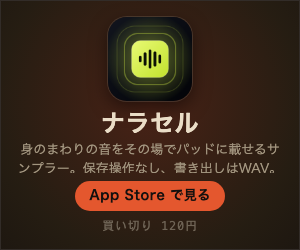
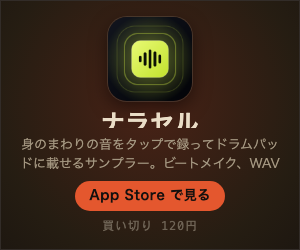
ナラセルを公開中に切り替え・1.1のタップ録音に文言を更新、つづくToDoのタイトル/OG/リードを習慣化・ヘルスケア連携に寄せる
ナラセル（6799580268）
- apps.py: state を prepare → live（2026-09-30頃から App Store で配信中）。tagline「タップで録って、両手で鳴らす。」、short を更新
- QR（assets/qr/naraseru.png）を新規生成、OG画像・A8素材（info/text/バナー）を再生成
- apps/naraseru.html: title・og:title・og:description・description・リードを更新。上部に App Store ボタン（ct=web_app_hero）
- 本文・support FAQ・解決記事（sanpuraa-hajimekata）の「長押しで録って離す」を、1.1の「録音ボタンをタップ→3・2・1→両手で演奏→画面のどこかをタップで停止」に置き換え（バージョン1.1からと明記）

つづくToDo（6796174701）
- apps.py: tagline「三日坊主でも、つづく。」。OG画像・A8素材（info/text）を再生成
- apps/tsuzukutodo.html: title・og:title・og:description・description冒頭・リードを更新（ヘルスケア連携で自動チェック、1.5.1から設定で1タップ連携）
- support FAQ に「Apple ヘルスケアと連携するには」を追加

生成スクリプト（build_pages / build_index_pages / sync_index_cards / sync_guide_status / sync_nav / build_faq_ld / build_sitemap / build_guides）を再実行。
/apps/ の本数表記（22→24本、配信中15→16本）も追随。
CSPハッシュを再計算し netlify.toml と完全一致（349件、過不足0）。check_state_text も問題なし。

Changed region(s): [[0.06, 0.504, 0.93, 0.7], [0.42, 0.504, 0.48, 0.532]]

diff --git a/apps/naraseru.html b/apps/naraseru.html
@@ -3,13 +3,13 @@
 <head>
 <meta charset="utf-8">
 <meta name="viewport" content="width=device-width, initial-scale=1">
-<title>ナラセル ｜ 株式会社サウナ / Sauna Inc.</title>
-<meta name="description" content="ナラセルは、身のまわりの音をパッドの長押しで録って、離した瞬間から演奏できるiPhone/iPad用のサンプラーです。無音カットと音量そろえは自動。9音を内蔵しているので買ったその場で鳴ります。16ステップの打ち込みは1拍もずれず、WAVで書き出せます。買い切り120円、追加課金なし・広告なし・通信なし。株式会社サウナ（Sauna Inc.）が開発・サポートしています。">
+<title>ナラセル｜録音サンプラー・ドラムパッドでビートメイク ｜ 株式会社サウナ / Sauna Inc.</title>
+<meta name="description" content="ナラセルは、身のまわりの音をタップで録って、止めた瞬間からドラムパッドで演奏できるiPhone/iPad用のサンプラーです。録音ボタンは押し続けなくてよく、3・2・1のカウントのあと両手で演奏して、画面のどこかをタップすれば止まります。無音カットと音量そろえは自動。9音を内蔵しているので買ったその場で鳴ります。16ステップの打ち込みは1拍もずれず、WAVで書き出せます。買い切り120円、追加課金なし・広告なし・通信なし。株式会社サウナ（Sauna Inc.）が開発・サポートしています。">
 <link rel="canonical" href="https://tokyo357.com/apps/naraseru">
 <meta name="theme-color" content="#101418">
 <meta property="og:type" content="website">
-<meta property="og:title" content="ナラセル ｜ 株式会社サウナ / Sauna Inc.">
-<meta property="og:description" content="長押しで録って、離すと楽器。身のまわりの音でビートを作る買い切りサンプラー。">
+<meta property="og:title" content="ナラセル｜録音サンプラー・ドラムパッドでビートメイク ｜ 株式会社サウナ / Sauna Inc.">
+<meta property="og:description" content="タップで録音、身のまわりの音がそのまま楽器に。ドラムパッドでビートメイクできる買い切りサンプラー。">
 <meta property="og:url" content="https://tokyo357.com/apps/naraseru">
 <link rel="icon" href="/assets/logo.svg" type="image/svg+xml">
 <link rel="stylesheet" href="/assets/style.css?v=20260805">
@@ -18,6 +18,7 @@
 <meta property="og:image:width" content="1200">
 <meta property="og:image:height" content="630">
 <meta name="twitter:card" content="summary_large_image">
+<meta name="apple-itunes-app" content="app-id=6799580268">
 <!-- /BUILD:head -->
 
 <script type="application/ld+json">
@@ -76,8 +77,9 @@
       <div>
         <p class="updated">IOS 17+ · IPHONE / IPAD · 買い切り 120円</p>
         <h1>ナラセル</h1>
-        <p class="lede">机を叩く音、ペットボトル、自分の声。<strong>パッドを長押しして、離すだけ</strong>で、その音は楽器になります。</p>
+        <p class="lede">机を叩く音、ペットボトル、自分の声、手元の楽器。<strong>録音ボタンをタップして、両手で鳴らすだけ</strong>で、その音はドラムパッドの楽器になります。押し続けなくていいので、楽器を持ったまま録れます（バージョン1.1から）。</p>
         <div class="actions mt-s">
+          <a class="btn" href="https://apps.apple.com/jp/app/id6799580268?ct=web_app_hero&amp;mt=8">App Store で見る</a>
           <a class="btn btn--ghost" href="/support#naraseru">よくある質問</a>
           <a class="btn btn--ghost" href="#help">お問い合わせ</a>
         </div>
@@ -103,8 +105,8 @@
           <figcaption>12枚のパッド。色と番号の両方で覚えられます。</figcaption>
         </figure>
         <figure>
-          <img src="/assets/shots/naraseru/2_record.png" width="440" height="900" alt="パッドを長押しして録音している最中の画面" loading="lazy">
-          <figcaption>長押ししているあいだが録音。離すと確定します。</figcaption>
+          <img src="/assets/shots/naraseru/2_record.png" width="440" height="900" alt="パッドに音を録音している最中の画面" loading="lazy">
+          <figcaption>録った音はそのままパッドに入ります。</figcaption>
         </figure>
         <figure>
           <img src="/assets/shots/naraseru/3_steps.png" width="440" height="900" alt="16ステップの打ち込み画面" loading="lazy">
@@ -112,9 +114,11 @@
         </figure>
       </div>
 
-      <h2>長押しして、離す。それで1音</h2>
-      <p>従来のサンプラーは「録る→前後を切る→音量を整える→やっと鳴らせる」まで、いくつも工程がありました。ナラセルは、<strong>指を離した瞬間にその全部を済ませます</strong>。</p>
-      <p>前後の無音を落とし、音量をそろえ（ノーマライズ）、頭とお尻に短いフェードを入れてプチッというノイズを消す。ここに設定項目はありません。あなたがするのは、押して離すことだけです。</p>
+      <h2>タップで録って、両手で鳴らす</h2>
+      <p>録りたいパッドを選んで、画面下の録音ボタンを1回タップします。<strong>押し続ける必要はありません</strong>。3・2・1のカウント（数字とクリック音と振動）のあいだに楽器を構え、録音が始まったら両手で演奏してください。止めるときは<strong>画面のどこかをタップ</strong>するだけです（最大20秒）。カウントは設定で なし／3秒／5秒 から選べます。</p>
+      <p>この「押し続けなくていい」録り方は<strong>バージョン1.1から</strong>です。</p>
+      <p>従来のサンプラーは「録る→前後を切る→音量を整える→やっと鳴らせる」まで、いくつも工程がありました。ナラセルは、<strong>録音を止めた瞬間にその全部を済ませます</strong>。</p>
+      <p>前後の無音を落とし、音量をそろえ（ノーマライズ）、頭とお尻に短いフェードを入れてプチッというノイズを消す。ここに設定項目はありません。あなたがするのは、録って止めることだけです。</p>
 
       <h2>買ったその場で鳴る</h2>
       <p>キック、スネア、ハット、オープンハット、クラップ、コンガ、ベース、コード、プラックの9音を最初から内蔵しています。マイクの許可を出す前から叩けますし、再生ボタンを押せばリズムが鳴ります。</p>
@@ -125,7 +129,7 @@
       <p>書き出しもまったく同じ仕組みを通ります。アプリで聴いた音と、書き出したWAVの中身が食い違うことがありません。</p>
 
       <h2>「保存」という操作がありません</h2>
-      <p>録音した音は、指を離したその瞬間にファイルとして書かれます。テンポも打ち込みもパッドの設定も、変えた直後に自動で保存されます。書き込みは一時ファイルを作ってから差し替える方式なので、途中で電源が落ちても前の状態が残ります。</p>
+      <p>録音した音は、止めたその瞬間にファイルとして書かれます（録音中にアプリを切り替えたり電話が鳴ったりしても、録れた分はパッドに入ります）。テンポも打ち込みもパッドの設定も、変えた直後に自動で保存されます。書き込みは一時ファイルを作ってから差し替える方式なので、途中で電源が落ちても前の状態が残ります。</p>
       <p>アプリを切り替えても、強制終了しても、次に開いたときは同じ続きから始まります。</p>
 
       <h2>音楽の知識がなくても、メロディになる</h2>
@@ -133,7 +137,7 @@
 
       <h2>できること</h2>
       <ul>
-        <li><strong>パッド長押しで録音</strong> — 最大20秒。ファイルアプリからの読み込みもできます。</li>
+        <li><strong>タップで録音</strong> — 録音ボタンで開始、画面のどこかをタップで停止。最大20秒。ファイルアプリからの読み込みもできます。</li>
         <li><strong>鳴らす範囲のトリム</strong> — つまんで動かす2つのハンドルだけ。ピンチ操作は使いません。</li>
         <li><strong>音の加工</strong> — 音程±12半音、音量、逆再生、ループ、押しているあいだだけ鳴らす。</li>
         <li><strong>重ねない組</strong> — 同じ組のパッドは同時に鳴りません。ハイハットの開け閉めのような使い方に。</li>
@@ -162,12 +166,16 @@
 <!-- BUILD:install -->
     <section class="install">
       <div>
-        <h2>ナラセルは現在 App Store 申請の準備中です</h2>
-        <p>iOS 17+ ／ 買い切り 120円 で公開予定です。公開されしだい、このページにダウンロードのリンクを出します。先に中身を知りたい方は、上の説明とよくある質問をご覧ください。</p>
+        <h2>ナラセルを使ってみる</h2>
+        <p>iOS 17+ ／ 買い切り 120円。この端末がiPhone・iPadなら、下のボタンから直接 App Store が開きます。</p>
         <div class="actions">
-          <a class="btn btn--ghost" href="/support#naraseru">よくある質問</a>
-          <a class="btn btn--ghost" href="/apps/">ほかのアプリを見る</a>
+          <a class="btn" href="https://apps.apple.com/jp/app/id6799580268?ct=web_app_page&amp;mt=8">App Store でダウンロード</a>
+          <a class="btn btn--ghost" href="/support#naraseru">先に質問を読む</a>
         </div>
+      </div>
+      <div class="install-qr">
+        <img src="/assets/qr/naraseru.png" width="290" height="290" alt="ナラセル の App Store ページのQRコード" loading="lazy">
+        <span>スマートフォンの<br>カメラで読み取る</span>
       </div>
     </section>
   <!-- /BUILD:install -->

diff --git a/support.html b/support.html
@@ -271,6 +271,14 @@
     },
     {
       "@type": "Question",
+      "name": "Apple ヘルスケアと連携するには",
+      "acceptedAnswer": {
+        "@type": "Answer",
+        "text": "バージョン1.5.1からは、アプリの 設定 →「Apple ヘルスケア」→「Apple ヘルスケアと連携する」をタップしてください。説明のあとに iOS の許可画面が出るので、「すべてオンにする」か使う項目をオンにして「許可」を押します。これで歩数やエクササイズ時間などを読み取れるようになります。 あとは、タスクの編集画面の「Apple ヘルスケア」で項目と目標を選ぶと、目標に届いた日にそのタスクが自動で完了になります。許可しただけでは、タスクは変わりません。 許可の状態を確かめたり変えたりするときは、ヘルスケア App → 右上のプロフィール →「App」→「つづくToDo」を開いてください。読み取りのみで、ヘルスケアへの書き込みや端末外への送信はしません。iPad など、ヘルスケアの無い機種では表示されません。"
+      }
+    },
+    {
+      "@type": "Question",
       "name": "機種変更でデータを引き継ぎたい",
       "acceptedAnswer": {
         "@type": "Answer",
@@ -1050,7 +1058,7 @@
       "name": "録音のしかたが分かりません",
       "acceptedAnswer": {
         "@type": "Answer",
-        "text": "パッドを長押ししてください。押しているあいだが録音で、指を離すとその音がそのパッドに入ります。前後の無音を切る・音量をそろえる処理は、離した瞬間に自動で終わります。設定する項目はありません。"
+        "text": "録りたいパッドをタップして選び、画面下の録音ボタンを1回タップしてください。押し続ける必要はありません。3・2・1のカウント（数字・クリック音・振動）のあとに録音が始まるので、両手で演奏できます。止めるときは画面のどこかをタップしてください（最大20秒で自動的に止まります）。その音がそのパッドに入り、前後の無音を切る・音量をそろえる処理も止めた瞬間に自動で終わります。 カウントの長さは設定で なし／3秒／5秒 から選べます。カウント中に画面をタップすると録音を取り消せます。この録り方はバージョン1.1からです。"
       }
     },
     {
@@ -1066,7 +1074,7 @@
       "name": "作ったものが消えませんか",
       "acceptedAnswer": {
         "@type": "Answer",
-        "text": "保存の操作はありません。録音した音は指を離した瞬間にファイルとして書かれ、テンポや打ち込みも変更のたびに自動保存されます。書き込みは一時ファイルを作ってから差し替える方式なので、途中で電源が落ちても前の状態が残ります。"
+        "text": "保存の操作はありません。録音した音は止めた瞬間にファイルとして書かれ（録音中にアプリを切り替えたり電話が鳴ったりしても、録れた分はパッドに入ります）、テンポや打ち込みも変更のたびに自動保存されます。書き込みは一時ファイルを作ってから差し替える方式なので、途中で電源が落ちても前の状態が残ります。"
       }
     },
     {
@@ -1735,6 +1743,14 @@
           <summary>深夜に日付が変わって、その日の記録ができません</summary>
           <div class="a">
             <p>設定 →「1日の区切り」を 3:00 などに変えてください。深夜0時をまたいでも、区切りの時刻までは「その日」のままチェックできます。0〜5時のあいだで選べます。</p>
+          </div>
+        </details>
+        <details>
+          <summary>Apple ヘルスケアと連携するには</summary>
+          <div class="a">
+            <p>バージョン1.5.1からは、アプリの 設定 →「Apple ヘルスケア」→<strong>「Apple ヘルスケアと連携する」</strong>をタップしてください。説明のあとに iOS の許可画面が出るので、「すべてオンにする」か使う項目をオンにして「許可」を押します。これで歩数やエクササイズ時間などを読み取れるようになります。</p>
+            <p>あとは、タスクの編集画面の「Apple ヘルスケア」で項目と目標を選ぶと、目標に届いた日にそのタスクが自動で完了になります。許可しただけでは、タスクは変わりません。</p>
+            <p>許可の状態を確かめたり変えたりするときは、<strong>ヘルスケア App → 右上のプロフィール →「App」→「つづくToDo」</strong>を開いてください。読み取りのみで、ヘルスケアへの書き込みや端末外への送信はしません。iPad など、ヘルスケアの無い機種では表示されません。</p>
           </div>
         </details>
         <details>
@@ -2490,7 +2506,8 @@
         <details>
           <summary>録音のしかたが分かりません</summary>
           <div class="a">
-            <p>パッドを長押ししてください。押しているあいだが録音で、指を離すとその音がそのパッドに入ります。前後の無音を切る・音量をそろえる処理は、離した瞬間に自動で終わります。設定する項目はありません。</p>
+            <p>録りたいパッドをタップして選び、画面下の<strong>録音ボタンを1回タップ</strong>してください。押し続ける必要はありません。3・2・1のカウント（数字・クリック音・振動）のあとに録音が始まるので、両手で演奏できます。止めるときは<strong>画面のどこかをタップ</strong>してください（最大20秒で自動的に止まります）。その音がそのパッドに入り、前後の無音を切る・音量をそろえる処理も止めた瞬間に自動で終わります。</p>
+            <p>カウントの長さは設定で なし／3秒／5秒 から選べます。カウント中に画面をタップすると録音を取り消せます。この録り方はバージョン1.1からです。</p>
           </div>
         </details>
         <details>
@@ -2502,7 +2519,7 @@
         <details>
           <summary>作ったものが消えませんか</summary>
           <div class="a">
-            <p>保存の操作はありません。録音した音は指を離した瞬間にファイルとして書かれ、テンポや打ち込みも変更のたびに自動保存されます。書き込みは一時ファイルを作ってから差し替える方式なので、途中で電源が落ちても前の状態が残ります。</p>
+            <p>保存の操作はありません。録音した音は止めた瞬間にファイルとして書かれ（録音中にアプリを切り替えたり電話が鳴ったりしても、録れた分はパッドに入ります）、テンポや打ち込みも変更のたびに自動保存されます。書き込みは一時ファイルを作ってから差し替える方式なので、途中で電源が落ちても前の状態が残ります。</p>
           </div>
         </details>
         <details>

diff --git a/apps/tsuzukutodo.html b/apps/tsuzukutodo.html
@@ -3,13 +3,13 @@
 <head>
 <meta charset="utf-8">
 <meta name="viewport" content="width=device-width, initial-scale=1">
-<title>つづくToDo ｜ 株式会社サウナ / Sauna Inc.</title>
-<meta name="description" content="タスクの数に上限がなく、押し間違えても取り消せて、忘れた日はあとから記録できる習慣・ToDoアプリ。買い切り120円、広告なし、アカウント登録なし、記録は端末内に保存（入力した内容は端末の外に出ません）。株式会社サウナ（Sauna Inc.）が開発・サポートしています。">
+<title>つづくToDo｜習慣化・日課チェック・継続記録 ｜ 株式会社サウナ / Sauna Inc.</title>
+<meta name="description" content="三日坊主でも、つづく。習慣化と日課チェックをひとつにしたToDoアプリで、歩数や運動はApple ヘルスケア連携で自動チェックできます。タスクの数に上限がなく、押し間違えても取り消せて、忘れた日はあとから記録できます。買い切り120円、広告なし、アカウント登録なし、記録は端末内に保存（入力した内容は端末の外に出ません）。株式会社サウナ（Sauna Inc.）が開発・サポートしています。">
 <link rel="canonical" href="https://tokyo357.com/apps/tsuzukutodo">
 <meta name="theme-color" content="#101418">
 <meta property="og:type" content="website">
-<meta property="og:title" content="つづくToDo ｜ 株式会社サウナ / Sauna Inc.">
-<meta property="og:description" content="上限なし・取り消せる・消えない。習慣もToDoもひとつの画面で。買い切り120円。">
+<meta property="og:title" content="つづくToDo｜習慣化・日課チェック・継続記録 ｜ 株式会社サウナ / Sauna Inc.">
+<meta property="og:description" content="三日坊主でも、つづく。習慣化と日課チェックをひとつに。歩数や運動はヘルスケア連携で自動チェック。広告なし・買い切り120円。">
 <meta property="og:url" content="https://tokyo357.com/apps/tsuzukutodo">
 <link rel="icon" href="/assets/logo.svg" type="image/svg+xml">
 <link rel="stylesheet" href="/assets/style.css?v=20260805">
@@ -69,7 +69,7 @@
       <div>
         <p class="updated">IOS 17+ · IPHONE / IPAD · 買い切り 120円</p>
         <h1>つづくToDo</h1>
-        <p class="lede">毎日の習慣も、一回きりのToDoも、ひとつの画面で。タスクの数に上限はなく、押し間違えてもすぐ取り消せて、うっかり忘れた日はあとから記録できます。</p>
+        <p class="lede"><strong>三日坊主でも、つづく。</strong>毎日の習慣も、一回きりのToDoも、ひとつの画面で。歩数やエクササイズ時間は<strong>Apple ヘルスケア連携で自動チェック</strong>（iPhone）。バージョン1.5.1からは、設定の「Apple ヘルスケアと連携する」を1回タップするだけで連携できます。タスクの数に上限はなく、押し間違えてもすぐ取り消せて、うっかり忘れた日はあとから記録できます。</p>
         <p class="rank">App Store 仕事効率化（有料App）<b>最高 65位</b><span class="when">2026-08-07 時点</span></p>
         <div class="actions mt-s">
           <a class="btn" href="https://apps.apple.com/jp/app/id6796174701?ct=web_app_hero&amp;mt=8">App Store で見る</a>

diff --git a/apps/index.html b/apps/index.html
@@ -4,13 +4,13 @@
 <meta charset="utf-8">
 <meta name="viewport" content="width=device-width, initial-scale=1">
 <title>アプリ一覧 ｜ 株式会社サウナ / Sauna Inc.</title>
-<meta name="description" content="株式会社サウナ（Sauna Inc.）が開発した iOS アプリ 22本の一覧。買い切り・広告なし・端末内で完結。既存アプリの低評価レビューを読み込んで、実際に困っている一点を潰す形で作っています。">
+<meta name="description" content="株式会社サウナ（Sauna Inc.）が開発した iOS アプリ 24本の一覧。買い切り・広告なし・端末内で完結。既存アプリの低評価レビューを読み込んで、実際に困っている一点を潰す形で作っています。">
 <link rel="canonical" href="https://tokyo357.com/apps/">
 <meta name="theme-color" content="#14100E">
 <meta property="og:type" content="website">
 <meta property="og:site_name" content="株式会社サウナ / Sauna Inc.">
 <meta property="og:title" content="アプリ一覧 ｜ 株式会社サウナ / Sauna Inc.">
-<meta property="og:description" content="株式会社サウナ（Sauna Inc.）が開発した iOS アプリ 22本の一覧。買い切り・広告なし・端末内で完結。既存アプリの低評価レビューを読み込んで、実際に困っている一点を潰す形で作っています。">
+<meta property="og:description" content="株式会社サウナ（Sauna Inc.）が開発した iOS アプリ 24本の一覧。買い切り・広告なし・端末内で完結。既存アプリの低評価レビューを読み込んで、実際に困っている一点を潰す形で作っています。">
 <meta property="og:url" content="https://tokyo357.com/apps/">
 <meta property="og:image" content="https://tokyo357.com/assets/og/home.png">
 <meta property="og:image:width" content="1200">
@@ -59,7 +59,7 @@
     <div class="doc-head">
       <p class="updated">SAUNA INC. ／ APPS</p>
       <h1>アプリ一覧</h1>
-      <p class="lede">株式会社サウナが企画・開発した iOS アプリです。現在 22本（うち 15本を配信中）。
+      <p class="lede">株式会社サウナが企画・開発した iOS アプリです。現在 24本（うち 16本を配信中）。
       どれも、既存アプリの低評価レビューを読み込んで<strong>実際に困っている一点</strong>を見つけ、そこをひとつずつ潰す形で作っています。
       広告は入れず、価格は買い切りに揃えています。</p>
     </div>
@@ -269,8 +269,8 @@
           <img src="/assets/icons/naraseru.png" width="512" height="512" alt="" loading="lazy">
           <div>
             <b>ナラセル</b>
-            <span>身のまわりの音をその場でパッドに載せるサンプラー。保存操作なし、書き出しはWAV。</span>
-            <em>iOS 17+・買い切り 120円・準備中</em>
+            <span>身のまわりの音をタップで録ってドラムパッドに載せるサンプラー。ビートメイク、WAV書き出し。</span>
+            <em>iOS 17+・買い切り 120円・配信中</em>
           </div>
         </a>
       </div>

diff --git a/guides/sanpuraa-hajimekata.html b/guides/sanpuraa-hajimekata.html
@@ -133,13 +133,16 @@
 
     <section class="install">
       <div>
-        <h2>この3処理を、指を離した瞬間に済ませるアプリ</h2>
-        <p><strong>ナラセル</strong>は、パッドを長押しして録音し、指を離した瞬間にトリム・ノーマライズ・フェードをまとめて済ませます。設定項目はなく、押して離すだけです。打ち込みは16ステップ×12トラックで、再生しながら叩いた位置をそのまま記録する「叩き込み」にも対応しています。作ったループは1〜8小節のWAVで書き出せます。</p>
-        <p class="cmp-note">ナラセルは現在 App Store 申請の準備中です。公開されしだいこのページからリンクします。</p>
+        <h2>この3処理を、録音を止めた瞬間に済ませるアプリ</h2>
+        <p><strong>ナラセル</strong>は、録音ボタンをタップして3・2・1のカウントのあと両手で演奏し、画面のどこかをタップして止めた瞬間に、トリム・ノーマライズ・フェードをまとめて済ませます（押し続けなくていいこの録り方はバージョン1.1から）。設定項目はなく、録って止めるだけです。打ち込みは16ステップ×12トラックで、再生しながら叩いた位置をそのまま記録する「叩き込み」にも対応しています。作ったループは1〜8小節のWAVで書き出せます。</p>
         <div class="actions">
+          <a class="btn" href="https://apps.apple.com/jp/app/id6799580268?ct=web_guide&amp;mt=8">App Store でダウンロード</a>
           <a class="btn btn--ghost" href="/apps/naraseru">アプリの詳細を見る</a>
-          <a class="btn btn--ghost" href="/support#naraseru">よくある質問</a>
         </div>
+      </div>
+      <div class="install-qr">
+        <img src="/assets/qr/naraseru.png" width="290" height="290" alt="ナラセル の App Store ページのQRコード" loading="lazy">
+        <span>スマートフォンの<br>カメラで読み取る</span>
       </div>
     </section>
 
@@ -152,7 +155,7 @@
           <div>
             <b>ナラセル</b>
             <span>身のまわりの音をその場でパッドに載せるサンプラー。保存操作なし、書き出しはWAV。</span>
-            <em>買い切り 120円・準備中</em>
+            <em>買い切り 120円・配信中</em>
           </div>
         </a>
         <a class="related-card" href="/apps/sagaseru">

diff --git a/index.html b/index.html
@@ -297,7 +297,7 @@
       <a class="work rise mt-l" href="/apps/naraseru">
         <img class="work-icon" src="/assets/icons/naraseru.png" width="512" height="512" alt="ナラセル のアプリアイコン" loading="lazy" decoding="async">
         <div>
-          <p class="meta">iOS 17+ · IPHONE / IPAD · 買い切り 120円 · 準備中</p>
+          <p class="meta">iOS 17+ · IPHONE / IPAD · 買い切り 120円 · App Store 公開中</p>
           <h3>ナラセル</h3>
           <p>身のまわりの音をその場でパッドに載せるサンプラー。保存操作なし、書き出しはWAV。</p>
           <span class="go">アプリの詳細とサポート →</span>

diff --git a/tools/apps.py b/tools/apps.py
@@ -32,7 +32,7 @@ APPS = [
          topic="仕事の道具"),
     dict(slug="tsuzukutodo", name="つづくToDo", appid="6796174701", state="live",
          price="買い切り 120円", os="iOS 17+",
-         tagline="習慣もToDoも、ひとつの画面で。",
+         tagline="三日坊主でも、つづく。",
          short="上限のないタスク、取り消せる記録、あとから付けられる日。",
          topic="毎日の記録"),
     dict(slug="shimekiri", name="シメキリ逆算", appid="6796252958", state="live",
@@ -85,10 +85,10 @@ APPS = [
          tagline="1件に、写真は何枚でも。",
          short="現場の指摘を写真何枚でもまとめ、その場でA4のPDF報告書にする。通信なし。",
          topic="仕事の道具"),
-    dict(slug="naraseru", name="ナラセル", appid="6799580268", state="prepare",
+    dict(slug="naraseru", name="ナラセル", appid="6799580268", state="live",
          price="買い切り 120円", os="iOS 17+",
-         tagline="長押しで録って、離すと楽器。",
-         short="身のまわりの音をその場でパッドに載せるサンプラー。保存操作なし、書き出しはWAV。",
+         tagline="タップで録って、両手で鳴らす。",
+         short="身のまわりの音をタップで録ってドラムパッドに載せるサンプラー。ビートメイク、WAV書き出し。",
          topic="画面まわり・気晴らし"),
     dict(slug="musuberu", name="ムスベル", appid="6799579385", state="live",
          price="買い切り 120円", os="iOS 17+",

diff --git a/affiliate/naraseru/text.md b/affiliate/naraseru/text.md
@@ -6,13 +6,13 @@
 | 用途 | 文面 | 文字数 |
 |---|---|---|
 | 見出し（短） | ナラセル | 4 |
-| 見出し（中） | ナラセル｜長押しで録って、離すと楽器。 | 19 |
-| 説明（1行） | 身のまわりの音をその場でパッドに載せるサンプラー。保存操作なし、書き出しはWAV。 | 41 |
-| 説明（2行） | 身のまわりの音をその場でパッドに載せるサンプラー。保存操作なし、書き出しはWAV。買い切り 120円。広告なし。 | 56 |
+| 見出し（中） | ナラセル｜タップで録って、両手で鳴らす。 | 20 |
+| 説明（1行） | 身のまわりの音をタップで録ってドラムパッドに載せるサンプラー。ビートメイク、WAV書き出し。 | 46 |
+| 説明（2行） | 身のまわりの音をタップで録ってドラムパッドに載せるサンプラー。ビートメイク、WAV書き出し。買い切り 120円。広告なし。 | 61 |
 
 ## リンク先
 
-`https://apps.apple.com/jp/app/id?ct=a8_text&mt=8`
+`https://apps.apple.com/jp/app/id6799580268?ct=a8_text&mt=8`
 
 `ct=` はキャンペーン識別子です。A8 経由の流入を App Analytics で
 切り分けるために付けています。**外さないでください。**

diff --git a/affiliate/naraseru/info.md b/affiliate/naraseru/info.md
@@ -3,18 +3,18 @@
 | 項目 | 内容 |
 |---|---|
 | アプリ名 | ナラセル |
-| 状態 | App Store 申請準備中 |
+| 状態 | App Store 配信中 |
 | 価格 | 買い切り 120円 |
 | 対応 | iOS 17+ |
 | 紹介ページ | https://tokyo357.com/apps/naraseru |
-| App Store | https://apps.apple.com/jp/app/id?ct=a8_text&mt=8 |
+| App Store | https://apps.apple.com/jp/app/id6799580268?ct=a8_text&mt=8 |
 | 提供 | 株式会社サウナ（Sauna Inc.） |
 
 ## 何をするアプリか
 
-長押しで録って、離すと楽器。
+タップで録って、両手で鳴らす。
 
-身のまわりの音をその場でパッドに載せるサンプラー。保存操作なし、書き出しはWAV。
+身のまわりの音をタップで録ってドラムパッドに載せるサンプラー。ビートメイク、WAV書き出し。
 
 ## 紹介するときに書いてよいこと
 

diff --git a/affiliate/tsuzukutodo/text.md b/affiliate/tsuzukutodo/text.md
@@ -6,7 +6,7 @@
 | 用途 | 文面 | 文字数 |
 |---|---|---|
 | 見出し（短） | つづくToDo | 7 |
-| 見出し（中） | つづくToDo｜習慣もToDoも、ひとつの画面で。 | 25 |
+| 見出し（中） | つづくToDo｜三日坊主でも、つづく。 | 19 |
 | 説明（1行） | 上限のないタスク、取り消せる記録、あとから付けられる日。 | 28 |
 | 説明（2行） | 上限のないタスク、取り消せる記録、あとから付けられる日。買い切り 120円。広告なし。 | 43 |
 

diff --git a/affiliate/tsuzukutodo/info.md b/affiliate/tsuzukutodo/info.md
@@ -12,7 +12,7 @@
 
 ## 何をするアプリか
 
-習慣もToDoも、ひとつの画面で。
+三日坊主でも、つづく。
 
 上限のないタスク、取り消せる記録、あとから付けられる日。
 
